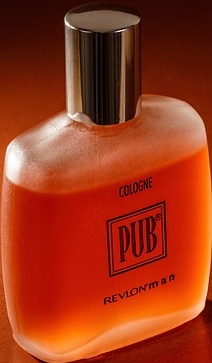
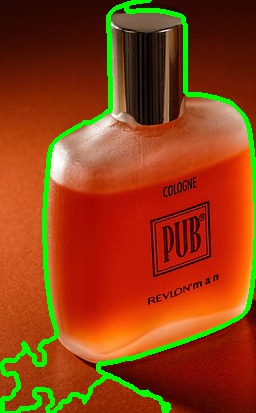
opencv python code

diff --git a/artificial_intelligence_model_example/example_openCV_image.py b/artificial_intelligence_model_example/example_openCV_image.py
@@ -1,0 +1,99 @@
+# openCV로 이미지 분석
+
+import cv2, sys
+from matplotlib import pyplot as plt
+import numpy as np
+
+image = cv2.imread('sample_image.jpg')
+image_gray = cv2.imread('sample_image.jpg', cv2.IMREAD_GRAYSCALE)
+# cv2.IMREAD_GRAYSCALE : 흑백 이미지로 load
+
+b, g, r = cv2.split(image)
+image2 = cv2.merge([r, g, b])
+# rgb 3가지 층으로 이루어져 있고, image2로 병합
+
+# plt.imshow(image2)
+# plt.xticks([])
+# plt.yticks([])
+# plt.show()
+
+# # window로 띄우기
+# cv2.imshow('image', image)
+# cv2.imshow('image_gray', image_gray)
+#
+# cv2.waitKey(0)
+# cv2.destroyAllWindows()
+
+# use 가우시안 블러 : 이미지를 부드럽게 하기 때문에 배경과 원하지 않는 부분을 부드럽게 하여 해당 경계를 찾지 못하게 하기 위함.
+# 블러 처리를 심하게 하면 원래 찾고자 하는 대상을 찾지 못하게 되고, 블러가 약하면 배경의 외곽도 포함되므로 ksize를 적당히 조절 필요.
+blur = cv2.GaussianBlur(image_gray, ksize=(3,3), sigmaX=0)
+ret, thresh1 = cv2.threshold(blur, 127, 255, cv2.THRESH_BINARY)
+
+# ksize=(3,3)으로 해 주는 것이 외곽을 잘 찾는다.
+# 외곽의 수를 적게 찾아내도록 알고리즘을 짜주면 되겠지만 지금은 ksize=(5,5)로 해줄 때 원하는 이미지의 외곽을 잘 찾는다 판단
+edged = cv2.Canny(blur, 10, 250)
+# cv2.imshow('Edged', edged)
+# cv2.waitKey(0)
+
+# 엣지 이미지로 closed를 찾기
+kernel = cv2.getStructuringElement(cv2.MORPH_RECT, (7,7))
+closed = cv2.morphologyEx(edged, cv2.MORPH_CLOSE, kernel)
+# cv2.imshow('closed', closed)
+# cv2.waitKey(0)
+
+# 하얀 선이 굵어 지면서 edge 이미지에서 보이는 각 경계들이 이어지면서 중간에 끊어지지 않는 선이 된 것을 확인
+
+# close이미지와 findContours()를 이용하여 컨투어 경계를 찾음
+contours, _ = cv2.findContours(closed.copy(),cv2.RETR_EXTERNAL, cv2.CHAIN_APPROX_SIMPLE)
+total = 0
+
+# 외곽선 그리는 용도. 이미지에 그리기 때문에 이 코드 적용하면 원래 이미지에
+# 초록색 선 생김
+contours_image = cv2.drawContours(image, contours, -1, (0,255,0), 3)
+# cv2.imshow('contours_image', contours_image)
+# cv2.waitKey(0)
+# cv2.destroyAllWindows()
+
+contours_xy = np.array(contours)
+print(contours_xy.shape)
+# 외곽을 저장하고 있는 contours는 외곽의 점들이 모여 선을 나타내므로 각 점의 좌표
+# contours[] => 물체가 몇 개인지 나타냅니다. 하나의 닫힌 선이 물체 하나를 인식합니다.
+# 위에서는 다른 것을 인식하지 않고 향수병만 인식했으므로 물체는 한 개 입니다.
+# contours[][] => 이 때부터 각 좌표를 나타냅니다
+# contours[][][x][y] -> 세번째와 네번째 부터는 각각 x축과 y축
+
+# x의 min과 max 찾기
+# 외곽 좌표값으로 부터 각각 x와 y를 찾도록 코드
+x_min, x_max = 0, 0
+value = list()
+for i in range(len(contours_xy)):
+    for j in range(len(contours_xy[i])):
+        value.append(contours_xy[i][j][0][0])  # 네번째 괄호가 0일때 x의 값
+        x_min = min(value)
+        x_max = max(value)
+print(x_min)
+print(x_max)
+
+# y의 min과 max 찾기
+y_min, y_max = 0, 0
+value = list()
+for i in range(len(contours_xy)):
+    for j in range(len(contours_xy[i])):
+        value.append(contours_xy[i][j][0][1])  # 네번째 괄호가 0일때 x의 값
+        y_min = min(value)
+        y_max = max(value)
+print(y_min)
+print(y_max)
+
+# image trim 하기
+x = x_min
+y = y_min
+w = x_max-x_min
+h = y_max-y_min
+img_trim = image[y:y+h, x:x+w]
+cv2.imwrite('org_trim.jpg', img_trim)
+org_image = cv2.imread('org_trim.jpg')
+
+# cv2.imshow('org_image', org_image)
+# cv2.waitKey(0)
+# cv2.destroyAllWindows()
